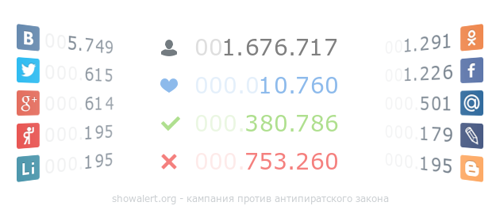
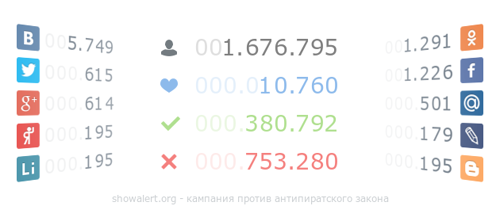
update statistics files for plugins

Changed region(s): [[0.6, 0.5534, 0.69, 0.6408], [0.6, 0.1748, 0.69, 0.2913], [0.6, 0.7282, 0.66, 0.8155]]

diff --git a/votes.js b/votes.js
@@ -1,1 +1,1 @@
-window.lk.votes(32112)
+window.lk.votes(32119)
